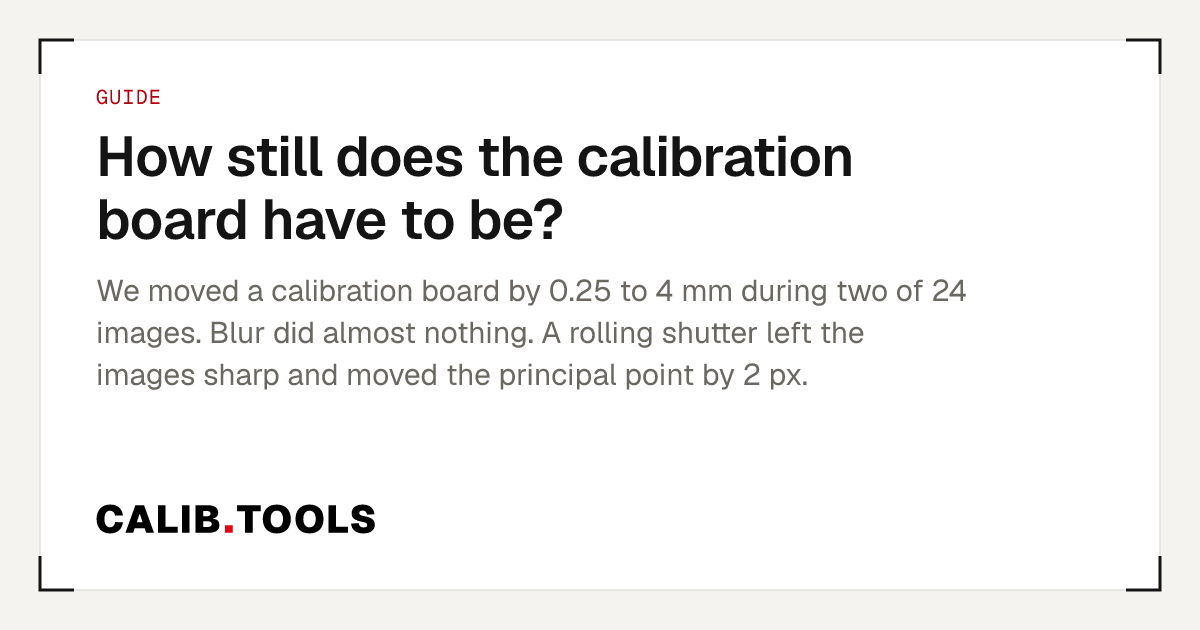
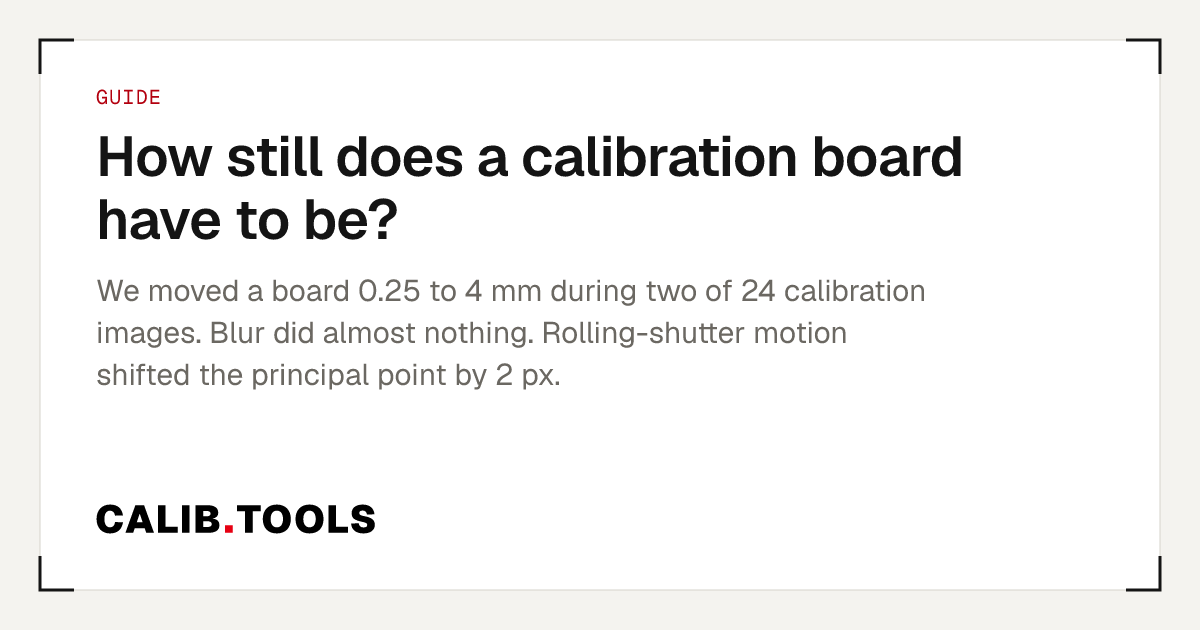
Publish the board-motion guide (#209)
* Publish the board-motion guide

Claude-Session: https://claude.ai/code/session_01AqceskH9HJZTMu6E8YTxRR

* Board-motion guide: title and description within the SEO limits

The published script builds its object-point list without a bracketed constant so the
placeholder check passes; its output is unchanged.

Claude-Session: https://claude.ai/code/session_01AqceskH9HJZTMu6E8YTxRR

---------

Changed region(s): [[0.0925, 0.2111, 0.8017, 0.3921], [0.0617, 0.5127, 0.74, 0.6333], [0.2158, 0.4222, 0.8017, 0.4825]]

diff --git a/src/lib/boardMotionGuide.test.ts b/src/lib/boardMotionGuide.test.ts
@@ -115,7 +115,4 @@ describe('board-motion figure', () => {
   it('no bar is clipped by the scale', () => {
     for (const r of rows) { expect(r.rms).toBeLessThanOrEqual(BOARD_MOTION_SCALE.rmsMax); expect(r.lensMax).toBeLessThanOrEqual(BOARD_MOTION_SCALE.lensMax); }
   });
-  it('the guide is a draft until the owner releases it', () => {
-    expect(md).toMatch(/^draft: true$/m);
-  });
 });

diff --git a/docs/content/experiments/board-motion/board_motion.py b/docs/content/experiments/board-motion/board_motion.py
@@ -50,7 +50,7 @@ def per_view_rms(obj, img, K, dist, rvecs, tvecs):
 
 
 def calibrate(img_points):
-    obj = [BOARD] * len(img_points)
+    obj = [BOARD for _ in img_points]
     rms, K, dist, rvecs, tvecs = cv2.calibrateCamera(obj, img_points, (W, H), None, None)
     return rms, K, per_view_rms(obj, img_points, K, dist, rvecs, tvecs)
 

diff --git a/src/content/guides/how-still-calibration-board.md b/src/content/guides/how-still-calibration-board.md
@@ -1,6 +1,6 @@
 ---
-title: "How still does the calibration board have to be?"
-description: "We moved a calibration board by 0.25 to 4 mm during two of 24 images. Blur did almost nothing. A rolling shutter left the images sharp and moved the principal point by 2 px."
+title: "How still does a calibration board have to be?"
+description: "We moved a board 0.25 to 4 mm during two of 24 calibration images. Blur did almost nothing. Rolling-shutter motion shifted the principal point by 2 px."
 date: 2026-11-23
 updated: 2026-11-23
 readingTime: "9 min"
@@ -8,7 +8,6 @@ keyRule: "Blur you can see is not the motion to worry about. A board that moves 
 related: ["reprojection-error", "corner-detection-troubleshooting", "opencv-camera-calibration"]
 products: ["charuco-composite"]
 sampleFiles: []
-draft: true
 faq:
   - q: "Does motion blur spoil a camera calibration?"
     a: "In our test, much less than expected. A board that moved 4 mm during a global-shutter exposure in two of 24 images left the result within noise of a still session. The smear is symmetric, so the detected corner sits in the middle of it and the whole board is simply seen at its average position. Heavy blur does cost corners: 4 of our 40 blurred images were not detected at all."
@@ -195,7 +194,7 @@ def per_view_rms(obj, img, K, dist, rvecs, tvecs):
 
 
 def calibrate(img_points):
-    obj = [BOARD] * len(img_points)
+    obj = [BOARD for _ in img_points]
     rms, K, dist, rvecs, tvecs = cv2.calibrateCamera(obj, img_points, (W, H), None, None)
     return rms, K, per_view_rms(obj, img_points, K, dist, rvecs, tvecs)
 
